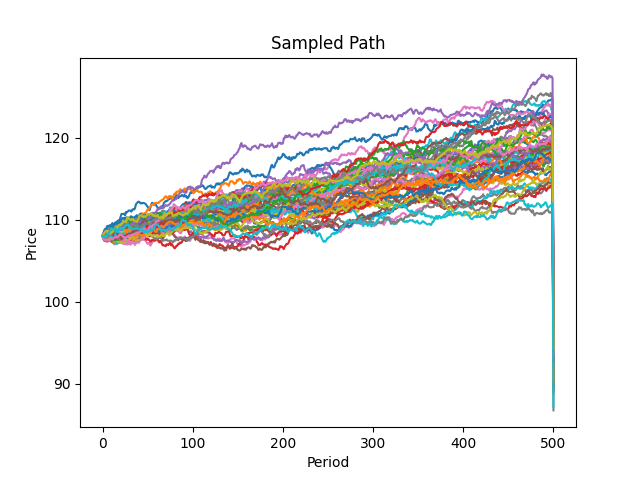
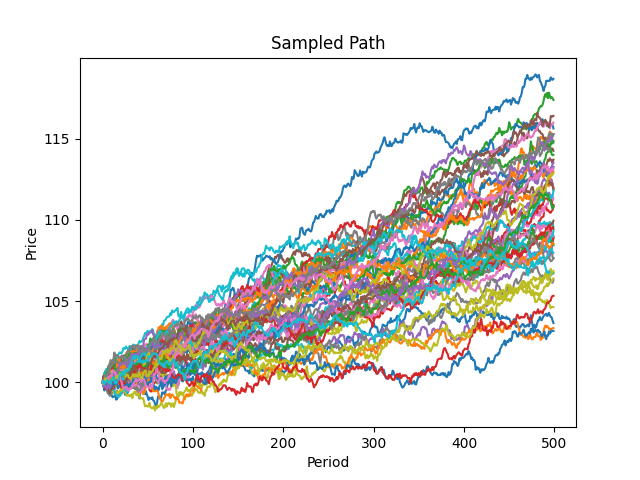
Modify plotting

diff --git a/main.py b/main.py
@@ -68,6 +68,11 @@ def main():
 	print('-----------------------------')
 	print('')
 
+	print(Model.randomWalk[:, -1])
+
+	# Plot distribution
+	Model.plot()
+
 	print('Enter the dS (porportion) to shift the Random Path to estimate delta. Better to have 0 < dS <= 0.1')
 
 	while True:
@@ -81,8 +86,7 @@ def main():
 	estimate_delta(Model, dS)
 
 
-	# Plot distribution
-	Model.plot()
+	
 	
 
 if __name__ == '__main__':

diff --git a/LeastSquaresMonteCarlo.py b/LeastSquaresMonteCarlo.py
@@ -95,10 +95,10 @@ class LSMC:
 		# draw sampled path
 		f2 = plt.figure(2)
 
-		x = np.arange(0, self.period + 1)
+		x = np.arange(0, self.period)
 
 		for path in random.sample(range(self.path), sampling):
-			plt.plot(x, self.randomWalk[path, :])
+			plt.plot(x, self.randomWalk[path, :-1])
 
 		plt.title('Sampled Path')
 		plt.xlabel('Period')
